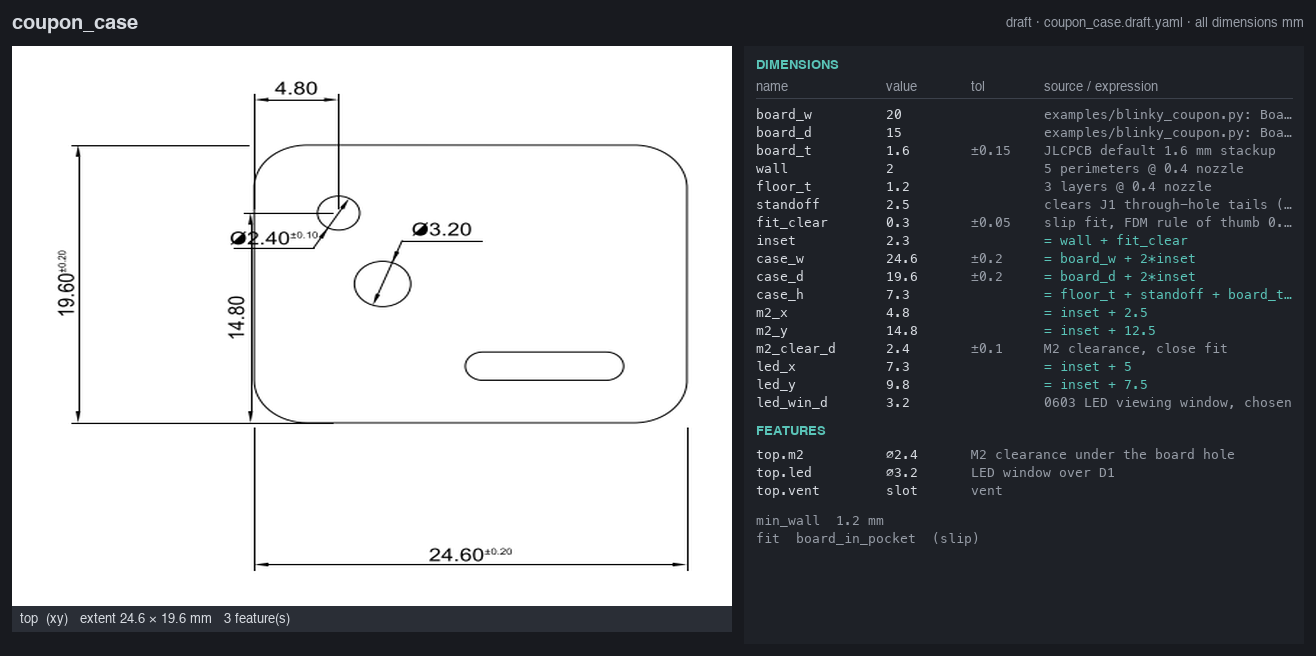
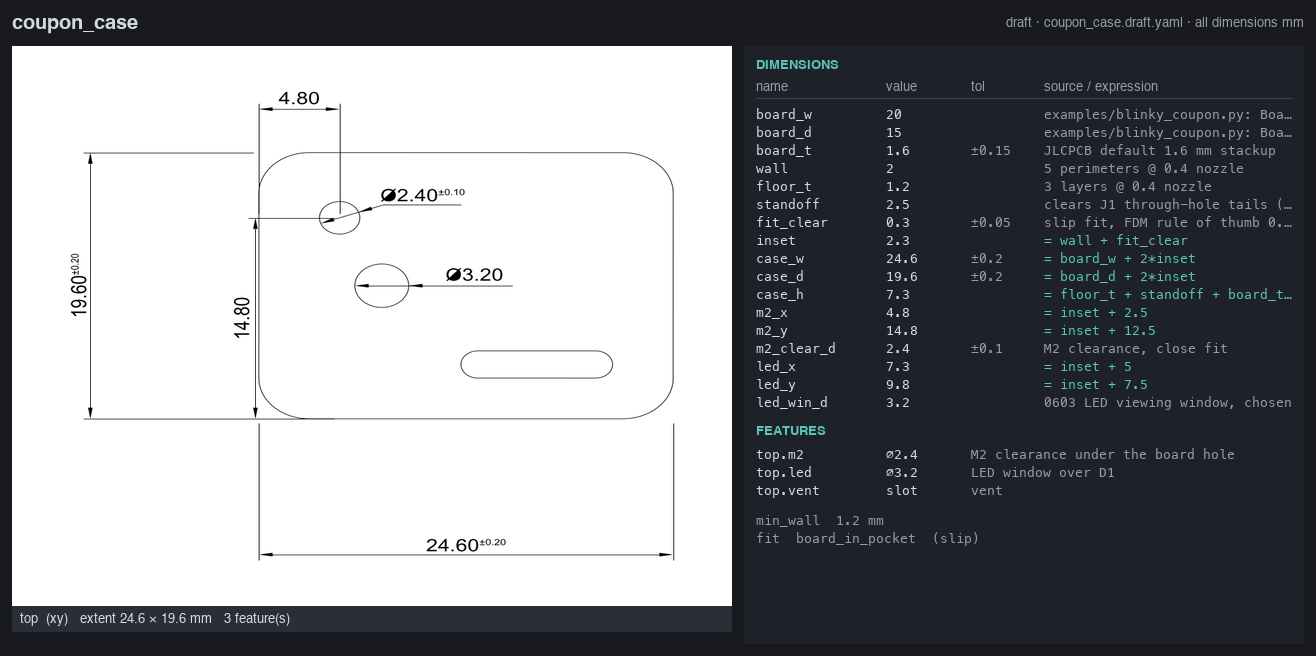
Fix draftsheet.py aspect-ratio distortion and clean leader angles
- Enforce ax.set_aspect('equal', adjustable='box') and 200 DPI supersampling in draftsheet.py so circles and text render true-to-scale
- Point diameter leaders in examples/coupon_case.draft.yaml into clear space without crossing linear extension lines
- Regenerate EXIF-stripped docs/img/draft-sheet.png

diff --git a/draftsheet.py b/draftsheet.py
@@ -171,15 +171,17 @@ def build_dxf(draft: Draft, view: View):
 
 
 def render_dxf(doc, w: int, h: int) -> Image.Image:
-    fig = plt.figure(figsize=(w / 100, h / 100), dpi=100)
-    ax = fig.add_axes([0.02, 0.02, 0.96, 0.96])
+    fig = plt.figure(figsize=(w / 100, h / 100), dpi=200)
+    ax = fig.add_axes([0.04, 0.04, 0.92, 0.92])
     try:
         Frontend(RenderContext(doc), MatplotlibBackend(ax),
                  config=Configuration(color_policy=ColorPolicy.BLACK)
                  ).draw_layout(doc.modelspace(), finalize=True)
+        ax.set_aspect("equal", adjustable="box")
+        ax.autoscale_view()
         ax.set_axis_off()
         buf = io.BytesIO()
-        fig.savefig(buf, format="png", dpi=100, facecolor="white")
+        fig.savefig(buf, format="png", dpi=200, facecolor="white")
     finally:
         plt.close(fig)
     buf.seek(0)
